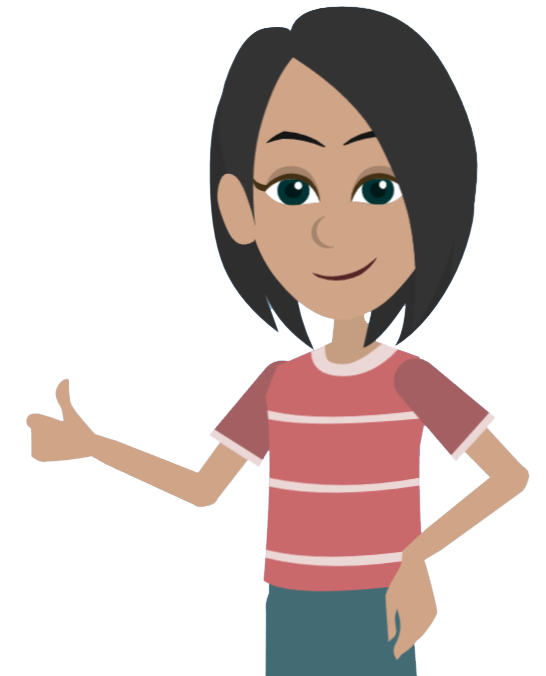
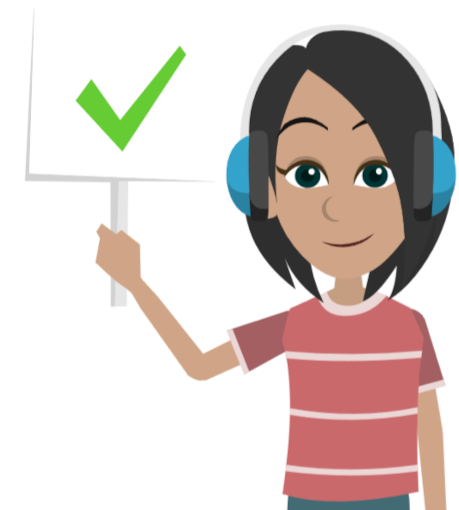
asd

diff --git a/src/game/scenes/4_Level2/scene4_9_correct.js b/src/game/scenes/4_Level2/scene4_9_correct.js
@@ -10,20 +10,22 @@ export default class Scene4_9_correct extends Phaser.Scene {
     }
 
     preload() {
-        // Sprites.        
-        this.load.image('stars', 'assets/Images/3_Level1/stars.png');
-        this.load.image('char-correct', 'assets/Images/3_Level1/genre-quiz/char-correct.png');
+        // Audio.
+        this.load.audio("success-4-9", ["assets/Audio/SFX/4_Level2/success.mp3"]);
+
+        // Sprites.                
+        this.load.image('char-correct', 'assets/Images/4_Level2/correct.png');
     }
 
     create() {
+        // Audio.        
+        this.successAudio = this.sound.add("success-4-9", { loop: false });
+        this.successAudio.play()
+
         // BG.
         this.cameras.main.setBackgroundColor("#959fe4");
         var bg = this.add.sprite(0, 0, 'notes-bg').setOrigin(0);
         bg.alpha = 0.5
-
-        // Stars.
-        var stars = this.add.sprite(400, 100, 'stars').setOrigin(0.5);
-        stars.setScale(0.6)
 
         // BG
         this.textBg = this.add.graphics();
@@ -38,7 +40,7 @@ Taylor Swift held the record before Justin Bieber.`,
         this.text.scale = 0.5
 
         // Char
-        var char = this.add.sprite(960, 600, 'char-correct').setOrigin(0.5);
+        var char = this.add.sprite(960, 600, 'char-correct').setOrigin(0.5).setScale(0.9);
 
 
         // Submit button.

diff --git a/src/game/scenes/4_Level2/scene4_9_incorrect.js b/src/game/scenes/4_Level2/scene4_9_incorrect.js
@@ -14,7 +14,7 @@ export default class Scene4_9_incorrect extends Phaser.Scene {
         this.load.audio("fail-4-9", ["assets/Audio/SFX/4_Level2/fail.mp3"]);
         // Sprites.        
         this.load.image('stars', 'assets/Images/3_Level1/stars.png');
-        this.load.image('char-incorrect', 'assets/Images/3_Level1/genre-quiz/char-incorrect.png');
+        this.load.image('char-incorrect', 'assets/Images/4_Level2/incorrect.png');
     }
 
     create() {
